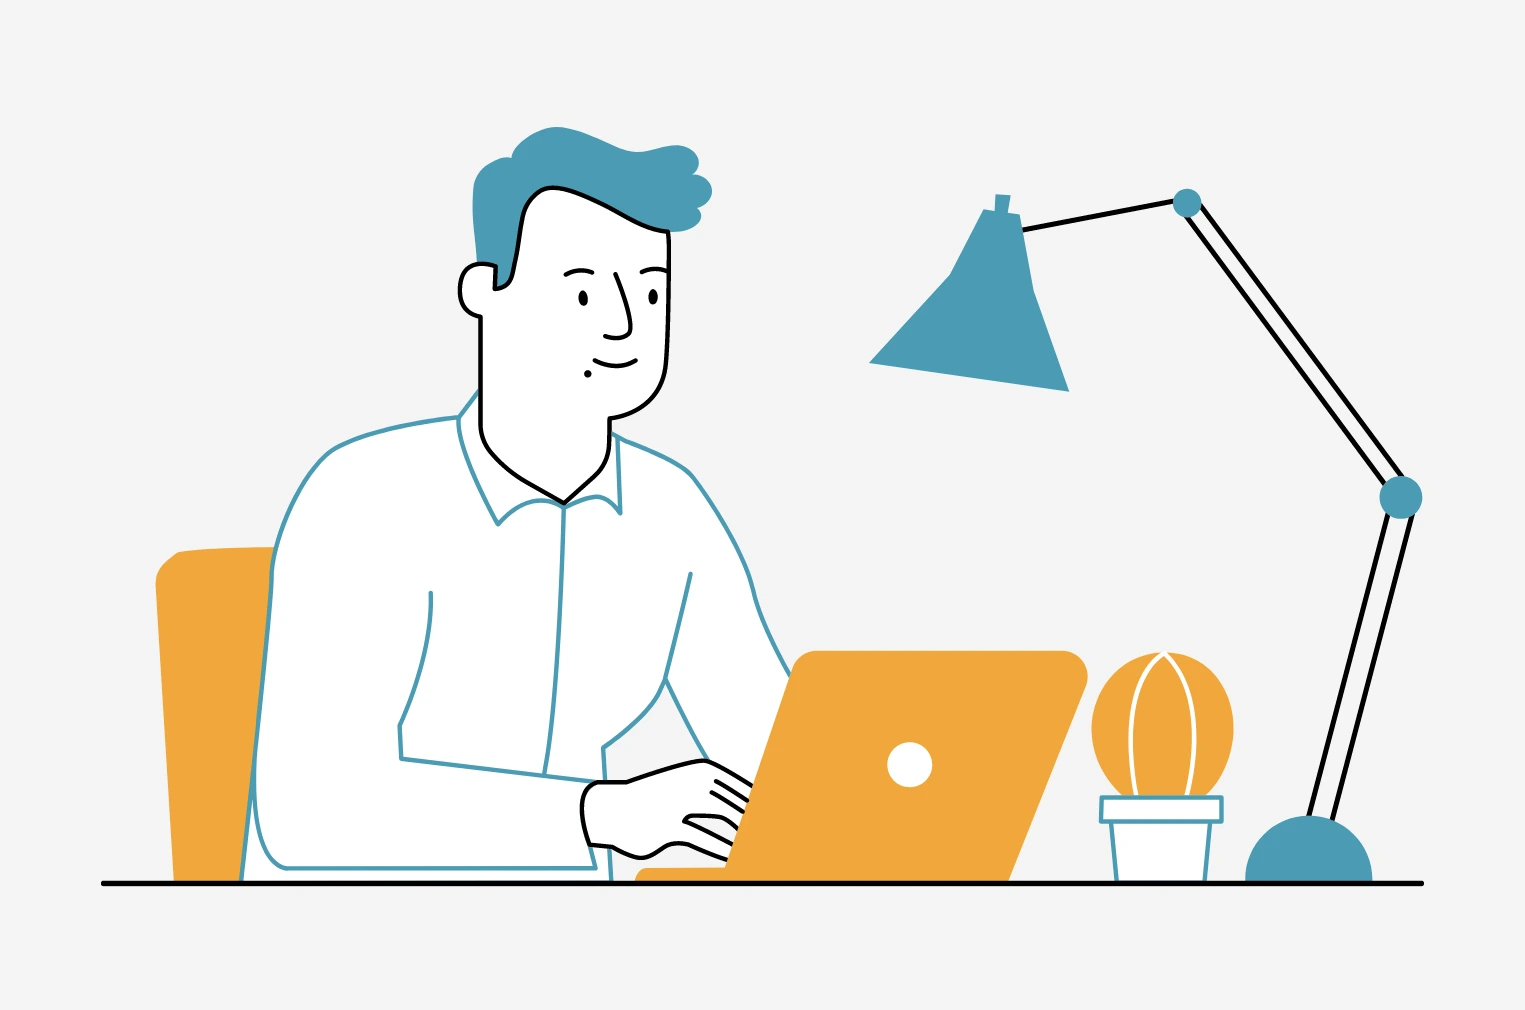
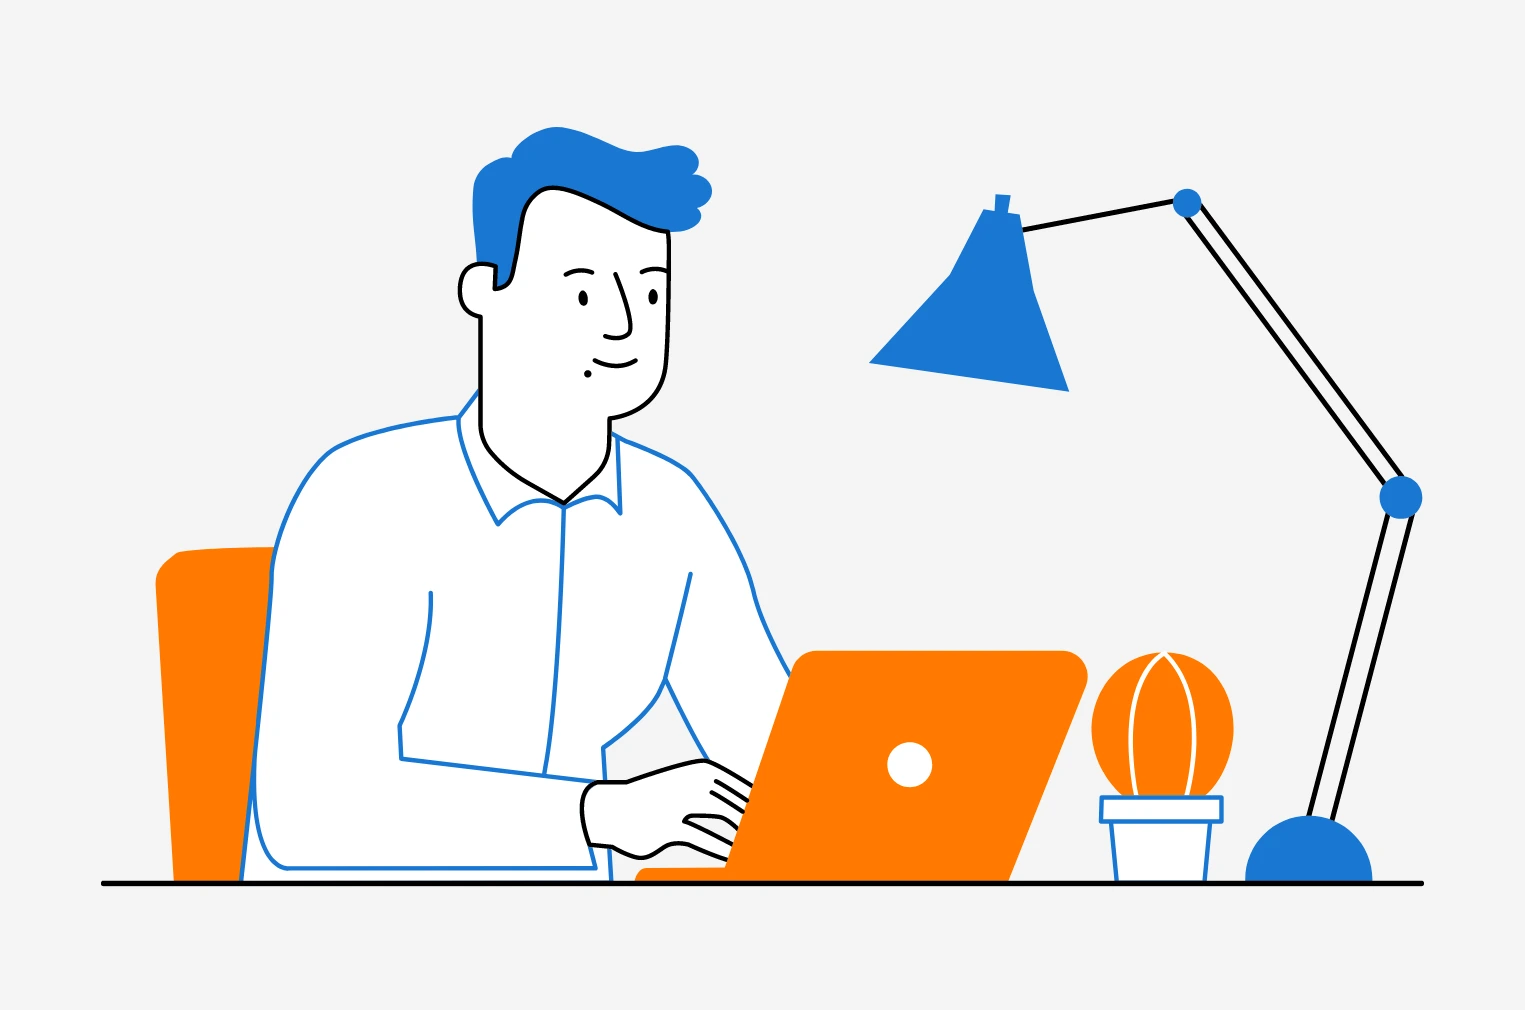
update contact page image format

diff --git a/frontend/pages/contact.js b/frontend/pages/contact.js
@@ -1,8 +1,7 @@
 import Head from 'next/head';
 import Link from 'next/link';
-import Button from '@mui/material/Button';
 import Image from 'next/image';
-import hello from '../assets/img/helloy.png';
+import hello from '../assets/img/hello.webp';
 import styles from '../styles/Contact.module.css';
 
 const contact = () => {
@@ -31,24 +30,6 @@ const contact = () => {
                             <p className={styles.subheaderText}>I'm a frontend developer based in San Diego. I like to write about coding.</p>
                             <p className={styles.subheaderText}>Feel free to connect with me.</p>
                         </div>
-                        {/* <Button className={styles.button}
-                            href='https://adolfschmuck.com/'
-                            rel='noopener noreferrer'
-                            target='_blank'>
-                            Website
-                        </Button>
-                        <Button className={styles.button}
-                            href='https://www.linkedin.com/in/adolf-schmuck/'
-                            rel='noopener noreferrer'
-                            target='_blank'>
-                            LinkedIn
-                        </Button>
-                        <Button className={styles.button}
-                            href='https://www.buymeacoffee.com/'
-                            rel='noopener noreferrer'
-                            target='_blank'>
-                            Buy Me a Coffee
-                        </Button> */}
                         <Link className={styles.button}
                             href='https://adolfschmuck.com/'
                             rel='noopener noreferrer'
